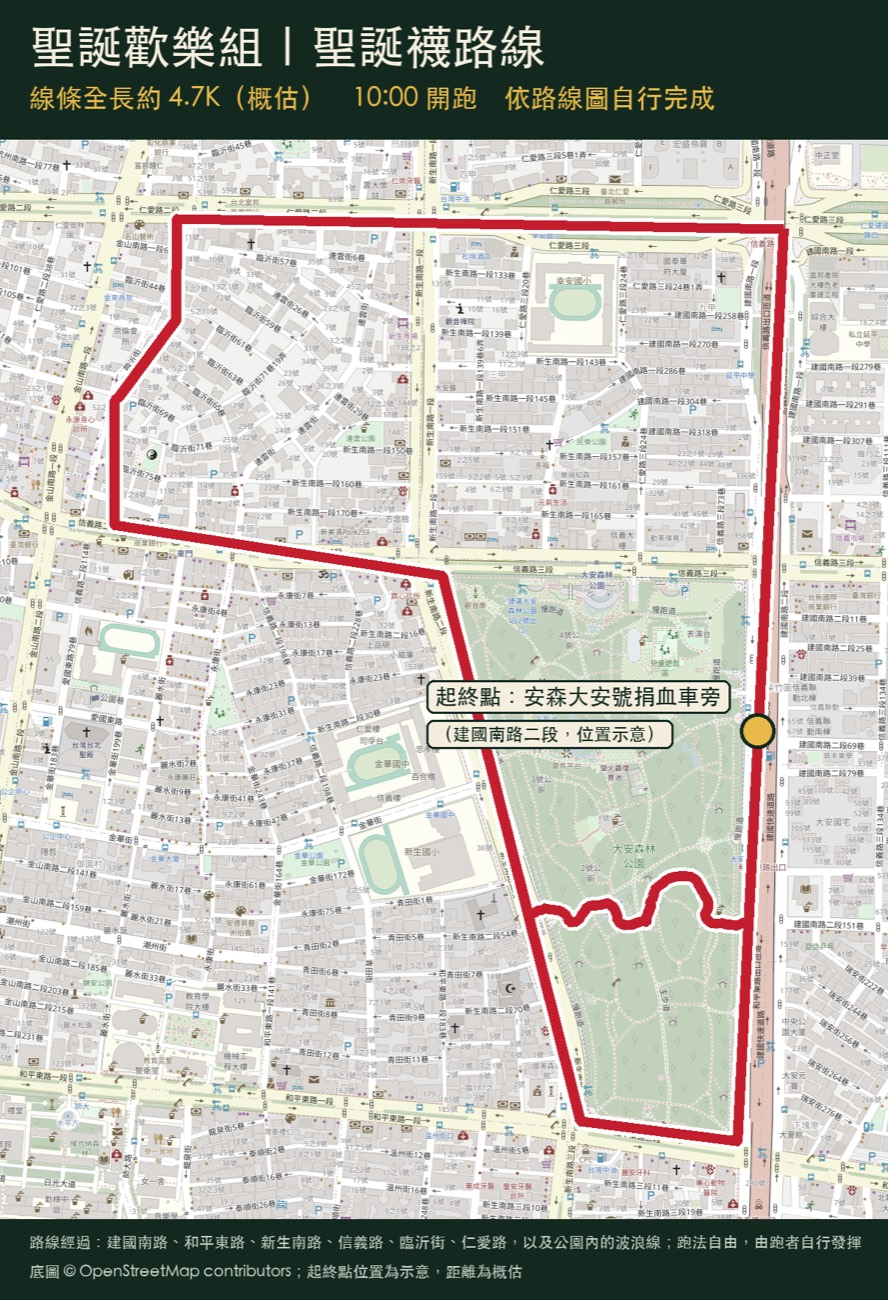
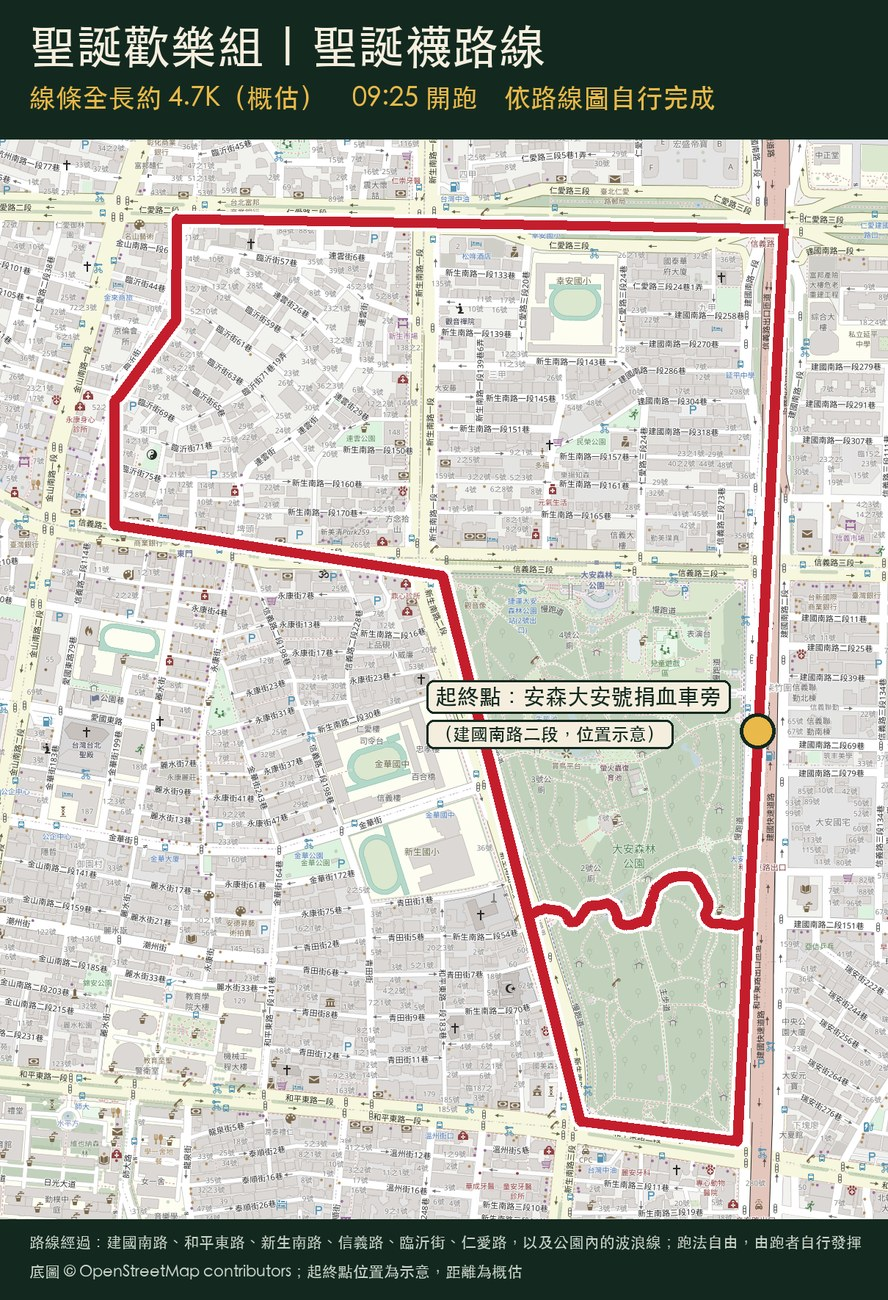
Add files via upload

diff --git a/index.html b/index.html
@@ -350,6 +350,14 @@ footer .fl{color:#DDEBE2}
 #groups .gel-grid.one{grid-template-columns:1fr}
 @media (max-width:820px){.perk-v{font-size:19px}}
 @media (max-width:420px){.perks-grid{grid-template-columns:1fr}}
+/* ===== MEETING POINT ===== */
+#schedule .meet-lead{margin:-6px 0 18px;font-size:16px;line-height:1.7;font-weight:700}
+#schedule .meet-grid{display:grid;grid-template-columns:1fr 1fr;gap:24px;align-items:start}
+#schedule .meet-map{display:block;text-decoration:none}
+#schedule .meet-map img{display:block;width:100%;height:auto;border:3px solid #0F2A1F;border-radius:14px;box-shadow:0 6px 0 #F0B83A}
+#schedule .meet-map span{display:block;text-align:center;font-size:13px;color:var(--mute-l);margin-top:10px}
+#schedule .sched td:first-child{white-space:nowrap}
+@media (max-width:820px){#schedule .meet-grid{grid-template-columns:1fr}}
 </style>
 </head>
 <body>
@@ -396,7 +404,7 @@ footer .fl{color:#DDEBE2}
 <div class="facts">
   <div class="wrap facts-grid">
     <div class="fact"><p class="k">DATE</p><p class="v">12/6（日）</p><p class="s">2026 年</p></div>
-    <div class="fact"><p class="k">TIME</p><p class="v">09:00 – 11:00</p><p class="s">兩組分開報到</p></div>
+    <div class="fact"><p class="k">TIME</p><p class="v">09:00 – 11:00</p><p class="s">兩組統一 09:00 報到</p></div>
     <div class="fact"><p class="k">PLACE</p><p class="v">大安森林公園</p><p class="s">集合點：6 號洗手間旁草皮</p></div>
     <div class="fact"><p class="k">FEE</p><p class="v">免費</p><p class="s">名額 100 人・<span data-close-short>–</span> 截止</p></div>
   </div>
@@ -457,8 +465,8 @@ footer .fl{color:#DDEBE2}
           <span class="gcap">點圖放大路線圖</span>
         </a>
         <dl class="gi">
-          <dt>報到</dt><dd>09:35–09:50</dd>
-          <dt>開跑</dt><dd>10:00</dd>
+          <dt>報到</dt><dd>09:00–09:15</dd>
+          <dt>開跑</dt><dd>09:25</dd>
           <dt>起終點</dt><dd>安森大安號捐血車旁</dd>
           <dt>跑法</dt><dd>依路線圖自行完成</dd>
         </dl>
@@ -492,14 +500,22 @@ footer .fl{color:#DDEBE2}
 <section class="block paper" id="schedule">
   <div class="wrap">
     <p class="sec-eyebrow">C H E C K　I N</p>
-    <h2 class="sec-title">報到時間</h2>
-    <div class="sched-wrap">
-      <table class="sched">
-        <tr><th>組別</th><th>報到時間</th></tr>
-        <tr><td>聖誕耐力組</td><td>09:00–09:15</td></tr>
-        <tr><td>聖誕歡樂組</td><td>09:35–09:50</td></tr>
-        <tr class="all"><td>報到地點</td><td>大安森林公園 6 號洗手間旁草皮</td></tr>
-      </table>
+    <h2 class="sec-title">報到與集合點</h2>
+    <p class="meet-lead">兩組統一時間集合報到，一起開場、一起熱身，再一起帶開出發。</p>
+    <div class="meet-grid">
+      <div class="sched-wrap">
+        <table class="sched">
+          <tr><th>時間</th><th>兩組一起</th></tr>
+          <tr><td>09:00–09:15</td><td>集合報到</td></tr>
+          <tr><td>09:15–09:25</td><td>開場＋熱身</td></tr>
+          <tr><td>09:25</td><td>一起帶開出發</td></tr>
+          <tr class="all"><td>集合點</td><td>大安森林公園 6 號洗手間旁草皮</td></tr>
+        </table>
+      </div>
+      <a class="meet-map" href="meeting-point.jpg" target="_blank" rel="noopener">
+        <img src="meeting-point.jpg" alt="集合點地圖：大安森林公園 6 號洗手間旁草皮，位於兒童遊戲場南側、靠建國南路" width="895" height="1057" loading="lazy" />
+        <span>集合點地圖（點圖放大）</span>
+      </a>
     </div>
   </div>
 </section>
@@ -593,7 +609,7 @@ footer .fl{color:#DDEBE2}
             </label>
             <label class="pick">
               <input type="radio" name="category" value="聖誕歡樂組" />
-              <span class="box"><span class="pt">聖誕歡樂組</span><span class="pd">不拼時間・跑聖誕襪路線約 4.7K・10:00 開跑</span><span class="ccount" id="count-聖誕歡樂組">目前 <b>–</b> 人</span></span>
+              <span class="box"><span class="pt">聖誕歡樂組</span><span class="pd">不拼時間・跑聖誕襪路線約 4.7K・09:25 開跑</span><span class="ccount" id="count-聖誕歡樂組">目前 <b>–</b> 人</span></span>
               <span class="tick">✓</span>
             </label>
           </div>
@@ -875,9 +891,7 @@ footer .fl{color:#DDEBE2}
       loader.classList.remove("show");
       form.style.display = "none";
       document.getElementById("deadlineNote").style.display = "none";
-      var info = p.category === "聖誕耐力組"
-        ? "<b>09:00–09:15</b> 報到、09:25 開跑（集合點：6 號洗手間旁草皮）。"
-        : "<b>09:35–09:50</b> 報到、10:00 開跑（集合點：6 號洗手間旁草皮）。";
+      var info = "<b>09:00–09:15</b> 報到、09:15 開場暖身、09:25 一起帶開（集合點：6 號洗手間旁草皮）。";
       document.getElementById("successMsg").innerHTML =
         "報名成功（" + esc(p.category) + "）！確認信會在幾分鐘內寄到你的信箱。<br />" +
         "12/6（日）" + info +
